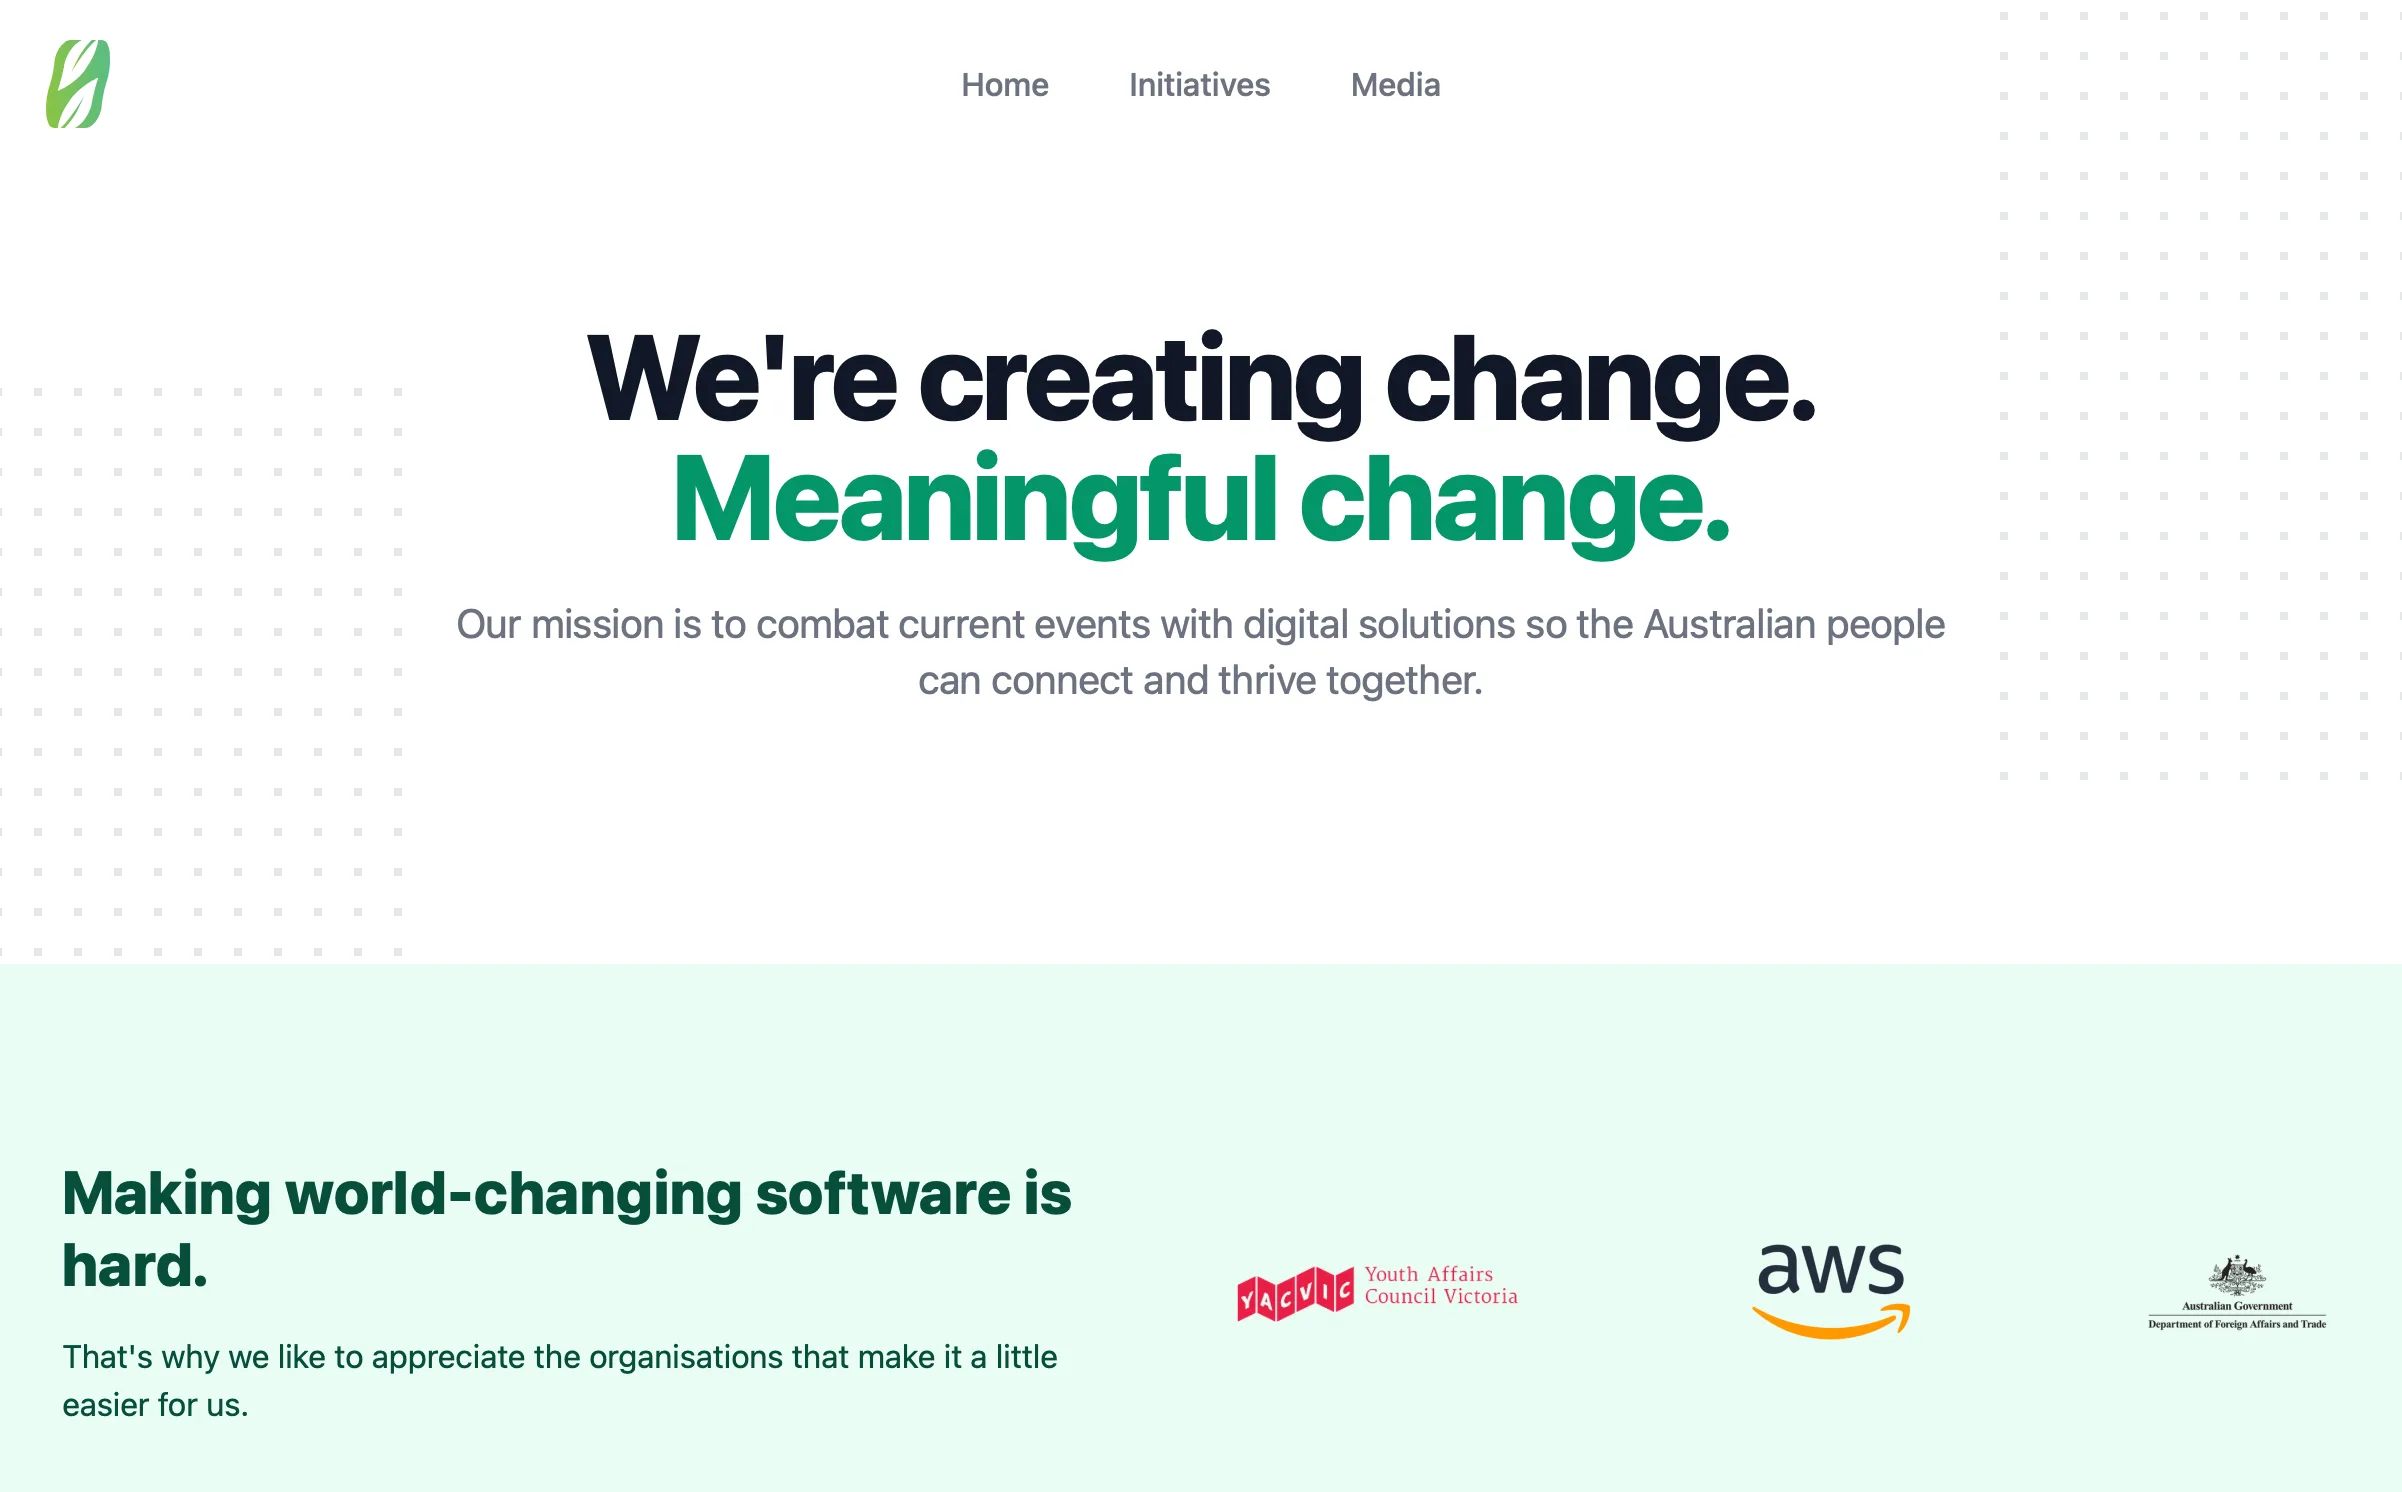
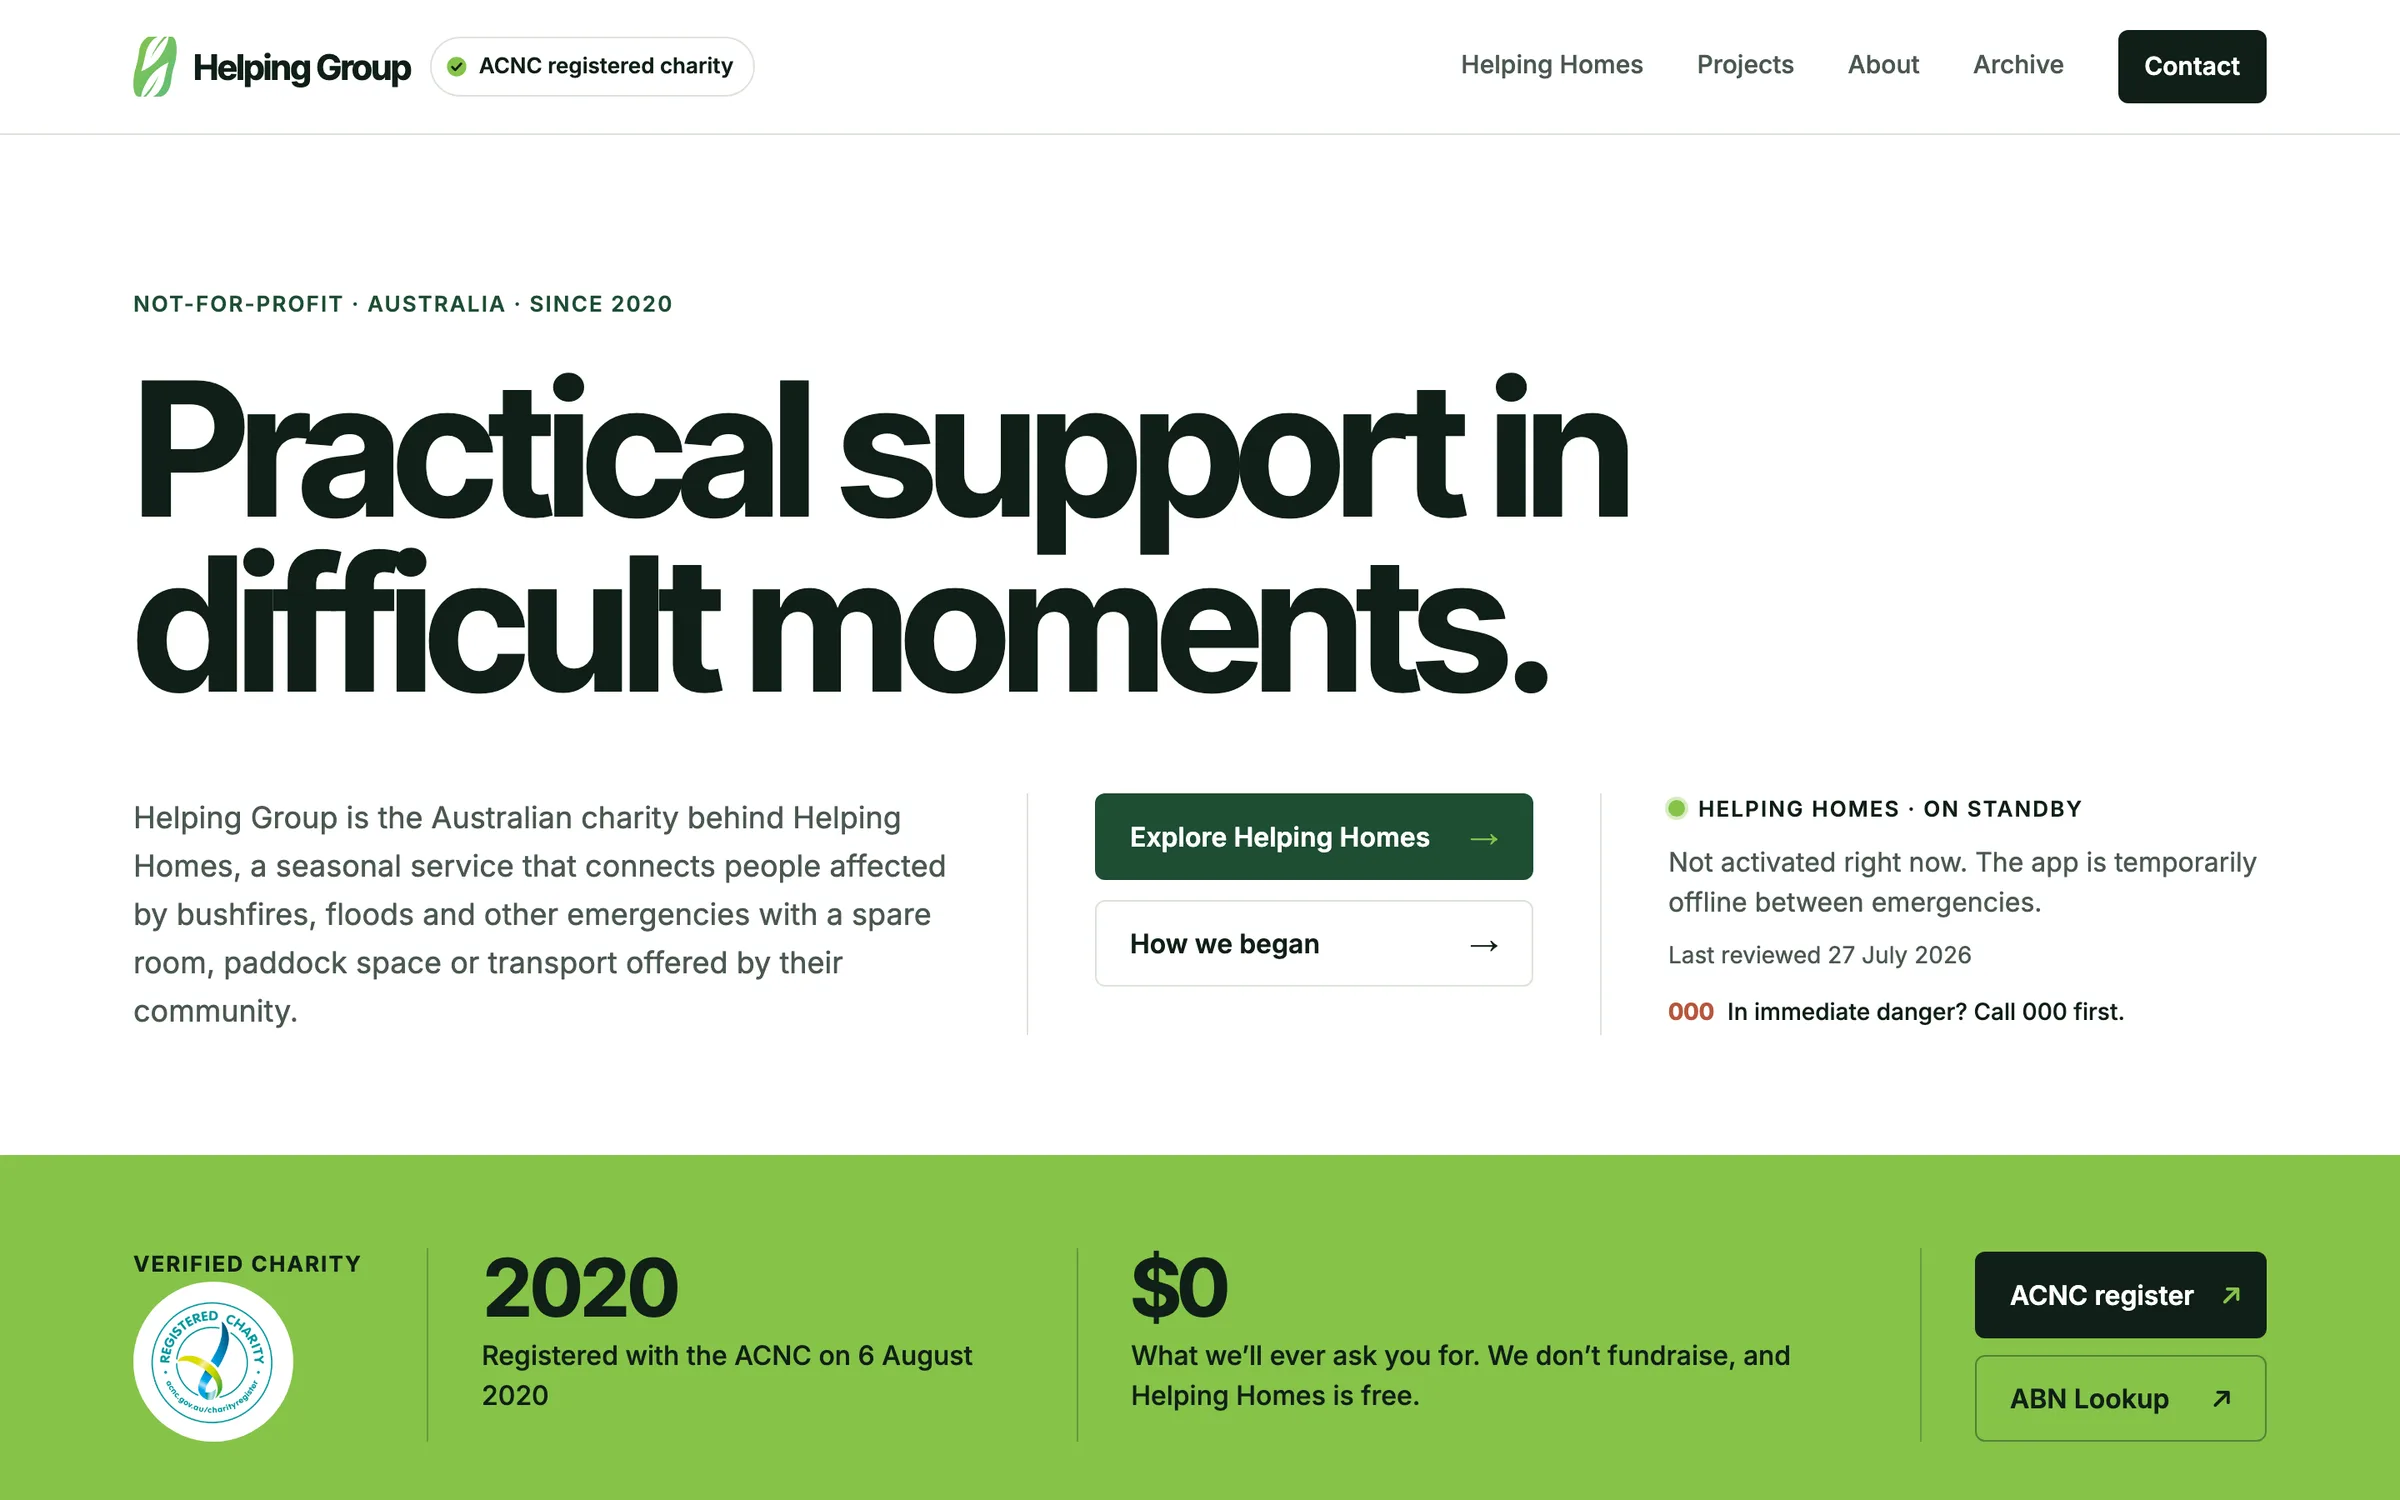
Refresh Helping Group and Do They Represent Me screenshots
Recapture both project images from the live sites at 1440x900 @2x
(2400x1500 WebP): the new Helping Group public-notice homepage and the
current Do They Represent Me preview home. Update the alt text to match
and relabel the DTRM figure now the suburb finder is off the live home.

diff --git a/src/pages/projects/helping-group.md b/src/pages/projects/helping-group.md
@@ -14,7 +14,7 @@ role: Founder / president / engineering
 externalUrl: https://helping.group
 externalLabel: Visit Helping Group
 imageKey: helping-group
-imageAlt: "Helping Group homepage stating its mission to help Australians connect and thrive together, above logos of organisations that supported it."
+imageAlt: "Helping Group homepage headed “Practical support in difficult moments.”, with links to explore Helping Homes, a notice that Helping Homes is on standby between emergencies, and a green band confirming ACNC registration since 2020 and that Helping Group never asks for money."
 canonicalUrl: /projects/helping-group
 publishedDate: "2022-08-31"
 updatedDate: "2026-07-10"
